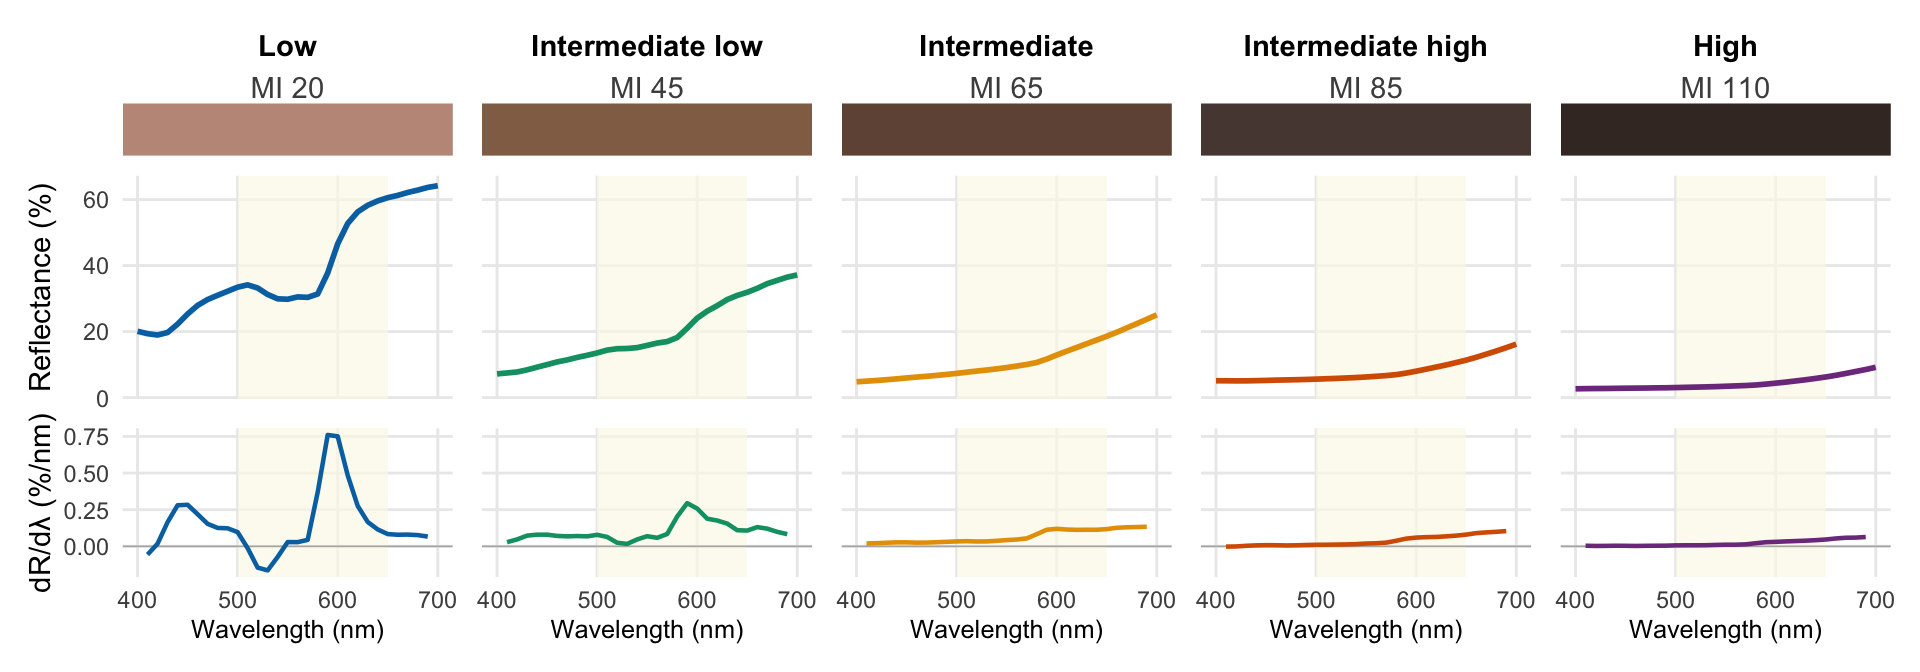
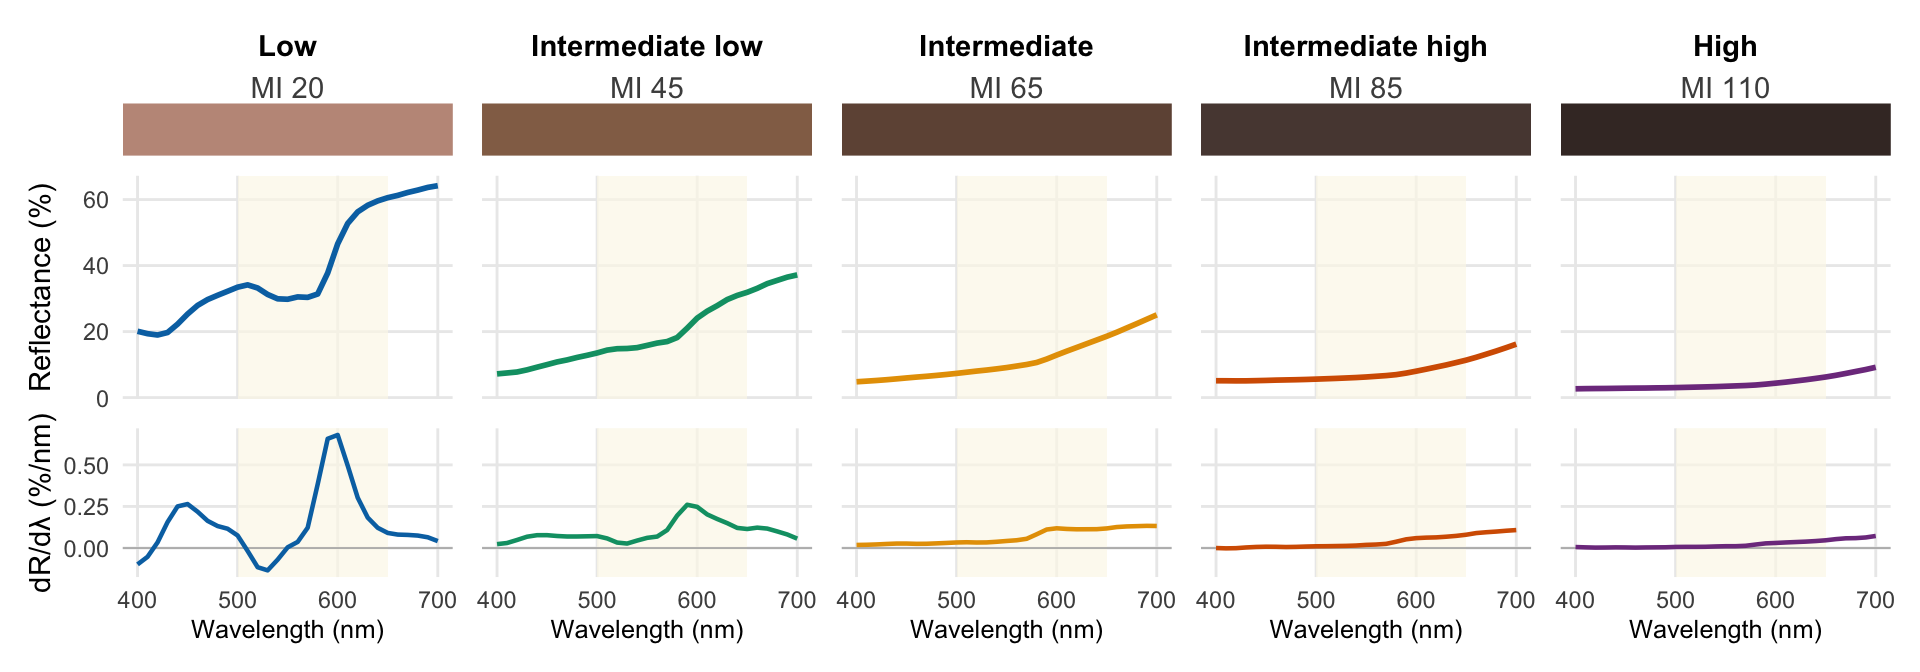
updated derivative methods.

diff --git a/docs/JID_SPF.html b/docs/JID_SPF.html
@@ -424,10 +424,10 @@ changes </a>
 <div id="strongRMarkdownfilestronguncommittedchanges"
 class="panel-collapse collapse">
 <div class="panel-body">
-<p>The R Markdown is untracked by Git. To know which version of the R
-Markdown file created these results, you’ll want to first commit it to
-the Git repo. If you’re still working on the analysis, you can ignore
-this warning. When you’re finished, you can run
+<p>The R Markdown file has unstaged changes. To know which version of
+the R Markdown file created these results, you’ll want to first commit
+it to the Git repo. If you’re still working on the analysis, you can
+ignore this warning. When you’re finished, you can run
 <code>wflow_publish</code> to commit the R Markdown file and build the
 HTML.</p>
 </div>
@@ -520,15 +520,15 @@ project makes it easier to run your code on other machines.</p>
 <div class="panel panel-default">
 <div class="panel-heading">
 <p class="panel-title">
-<a data-toggle="collapse" data-parent="#workflowr-checks" href="#strongRepositoryversionstrongahrefhttpsgithubcomlasisilabSkinOpticstree8dce03011d1175f281af12471c164ebfa65601f8targetblank8dce030a">
+<a data-toggle="collapse" data-parent="#workflowr-checks" href="#strongRepositoryversionstrongahrefhttpsgithubcomlasisilabSkinOpticstreea6bf8a4023adb568d4412fdb3dad40a08aa5e2a8targetblanka6bf8a4a">
 <span class="glyphicon glyphicon-ok text-success"
 aria-hidden="true"></span> <strong>Repository version:</strong>
-<a href="https://github.com/lasisilab/SkinOptics/tree/8dce03011d1175f281af12471c164ebfa65601f8" target="_blank">8dce030</a>
+<a href="https://github.com/lasisilab/SkinOptics/tree/a6bf8a4023adb568d4412fdb3dad40a08aa5e2a8" target="_blank">a6bf8a4</a>
 </a>
 </p>
 </div>
 <div
[2 lines of base64/hex data omitted]
 class="panel-collapse collapse">
 <div class="panel-body">
 <p>
@@ -538,7 +538,7 @@ reproducibility.
 </p>
 <p>
 The results in this page were generated with repository version
-<a href="https://github.com/lasisilab/SkinOptics/tree/8dce03011d1175f281af12471c164ebfa65601f8" target="_blank">8dce030</a>.
+<a href="https://github.com/lasisilab/SkinOptics/tree/a6bf8a4023adb568d4412fdb3dad40a08aa5e2a8" target="_blank">a6bf8a4</a>.
 See the <em>Past versions</em> tab to see a history of the changes made
 to the R Markdown and HTML files.
 </p>
@@ -559,11 +559,8 @@ Ignored files:
     Ignored:    data/.DS_Store
     Ignored:    output/.DS_Store
 
-Untracked files:
-    Untracked:  analysis/JID_SPF.Rmd
-    Untracked:  output/JID_SPF_representative_spectra.pdf
-    Untracked:  output/JID_SPF_representative_spectra.png
-    Untracked:  output/JID_SPF_representative_spectra.svg
+Unstaged changes:
+    Modified:   analysis/JID_SPF.Rmd
 
 </code></pre>
 <p>
@@ -579,15 +576,78 @@ have uncommitted changes.
 </div>
 <div id="versions" class="tab-pane fade">
 <p>
-There are no past versions. Publish this analysis with
-<code>wflow_publish()</code> to start tracking its development.
+These are the previous versions of the repository in which changes were
+made to the R Markdown (<code>analysis/JID_SPF.Rmd</code>) and HTML
+(<code>docs/JID_SPF.html</code>) files. If you’ve configured a remote
+Git repository (see <code>?wflow_git_remote</code>), click on the
+hyperlinks in the table below to view the files as they were in that
+past version.
 </p>
+<div class="table-responsive">
+<table class="table table-condensed table-hover">
+<thead>
+<tr>
+<th>
+File
+</th>
+<th>
+Version
+</th>
+<th>
+Author
+</th>
+<th>
+Date
+</th>
+<th>
+Message
+</th>
+</tr>
+</thead>
+<tbody>
+<tr>
+<td>
+Rmd
+</td>
+<td>
+<a href="https://github.com/lasisilab/SkinOptics/blob/a6bf8a4023adb568d4412fdb3dad40a08aa5e2a8/analysis/JID_SPF.Rmd" target="_blank">a6bf8a4</a>
+</td>
+<td>
+tinalasisi
+</td>
+<td>
+2026-06-17
+</td>
+<td>
+create figure for SPF paper
+</td>
+</tr>
+<tr>
+<td>
+html
+</td>
+<td>
+<a href="https://rawcdn.githack.com/lasisilab/SkinOptics/a6bf8a4023adb568d4412fdb3dad40a08aa5e2a8/docs/JID_SPF.html" target="_blank">a6bf8a4</a>
+</td>
+<td>
+tinalasisi
+</td>
+<td>
+2026-06-17
+</td>
+<td>
+create figure for SPF paper
+</td>
+</tr>
+</tbody>
+</table>
+</div>
 <hr>
 </div>
 </div>
 </div>
 <div class="figure" style="text-align: center">
-<img src="figure/JID_SPF.Rmd/representative_spectra-1.png" alt="Representative facial reflectance spectra chosen to span the observed melanin-index range with clear color contrast: the lightest and darkest subjects in the sample as endpoints, plus the nearest real subject to MI ≈ 45, 65, and 85 for the middle (the reflectance curve, derivative, and color swatch all come from the same individual). Top swatch = the perceived skin color for that spectrum (CIE D65 / 1931 2° observer → sRGB). Middle = full 400–700 nm reflectance curve; bottom = its first derivative dR/dλ. y-axes are held constant across classes so magnitudes are comparable. Shaded band = 500–650 nm hemoglobin-feature region." width="100%" />
+<img src="figure/JID_SPF.Rmd/representative_spectra-1.png" alt="Representative facial reflectance spectra chosen to span the observed melanin-index range with clear color contrast: the lightest and darkest subjects in the sample as endpoints, plus the nearest real subject to MI ≈ 45, 65, and 85 for the middle (the reflectance curve, derivative, and color swatch all come from the same individual). Top swatch = the perceived skin color for that spectrum (CIE D65 / 1931 2° observer → sRGB). Middle = full 400–700 nm reflectance curve; bottom = its first derivative dR/dλ, estimated by local polynomial regression (KernSmooth::locpoly, derivative order 1, degree 2; direct plug-in bandwidth dpill × 0.7), matching the derivative method in Pryor et al. (2026). y-axes are held constant across classes so magnitudes are comparable. Shaded band = 500–650 nm hemoglobin-feature region." width="100%" />
 <p class="caption">
 Representative facial reflectance spectra chosen to span the observed
 melanin-index range with clear color contrast: the lightest and darkest
@@ -596,9 +656,49 @@ subjects in the sample as endpoints, plus the nearest real subject to MI
 color swatch all come from the same individual). Top swatch = the
 perceived skin color for that spectrum (CIE D65 / 1931 2° observer →
 sRGB). Middle = full 400–700 nm reflectance curve; bottom = its first
-derivative dR/dλ. y-axes are held constant across classes so magnitudes
-are comparable. Shaded band = 500–650 nm hemoglobin-feature region.
+derivative dR/dλ, estimated by local polynomial regression
+(KernSmooth::locpoly, derivative order 1, degree 2; direct plug-in
+bandwidth dpill × 0.7), matching the derivative method in Pryor et
+al. (2026). y-axes are held constant across classes so magnitudes are
+comparable. Shaded band = 500–650 nm hemoglobin-feature region.
 </p>
+</div>
+<p>
+<button type="button" class="btn btn-default btn-xs btn-workflowr btn-workflowr-fig" data-toggle="collapse" data-target="#fig-representative_spectra-1">
+Past versions of representative_spectra-1.png
+</button>
+</p>
+<div id="fig-representative_spectra-1" class="collapse">
+<div class="table-responsive">
+<table class="table table-condensed table-hover">
+<thead>
+<tr>
+<th>
+Version
+</th>
+<th>
+Author
+</th>
+<th>
+Date
+</th>
+</tr>
+</thead>
+<tbody>
+<tr>
+<td>
+<a href="https://github.com/lasisilab/SkinOptics/blob/a6bf8a4023adb568d4412fdb3dad40a08aa5e2a8/docs/figure/JID_SPF.Rmd/representative_spectra-1.png" target="_blank">a6bf8a4</a>
+</td>
+<td>
+tinalasisi
+</td>
+<td>
+2026-06-17
+</td>
+</tr>
+</tbody>
+</table>
+</div>
 </div>
 <table>
 <caption>Perceived skin color per representative spectrum, computed from
@@ -665,7 +765,11 @@ reflectance workbook; <code>tidyverse</code> (<code>dplyr</code>,
 <code>ggplot2</code>) does the wrangling, reshaping, and plotting;
 <code>here</code> resolves project-relative paths;
 <code>patchwork</code> composes the per-class swatch / reflectance /
-derivative columns into the final figure.</p>
+derivative columns into the final figure. <code>KernSmooth</code>
+(<code>locpoly</code>, <code>dpill</code>) estimates the first
+derivative of each reflectance spectrum by local polynomial regression,
+identical to the method in the original SkinOptics analysis (Pryor et
+al., 2026).</p>
 <p><strong>Spectrum → color.</strong> The perceived skin color is
 computed with standard colorimetry packages:</p>
 <ul>
@@ -698,31 +802,32 @@ attached base packages:
 [1] stats     graphics  grDevices utils     datasets  methods   base     
 
 other attached packages:
- [1] spacesRGB_1.7-0  spacesXYZ_1.6-0  colorSpec_1.8-0  patchwork_1.3.2 
- [5] here_1.0.2       openxlsx_4.2.8.1 lubridate_1.9.5  forcats_1.0.1   
- [9] stringr_1.6.0    dplyr_1.2.1      purrr_1.2.2      readr_2.2.0     
-[13] tidyr_1.3.2      tibble_3.3.1     ggplot2_4.0.3    tidyverse_2.0.0 
-[17] knitr_1.51      
+ [1] spacesRGB_1.7-0    spacesXYZ_1.6-0    colorSpec_1.8-0    KernSmooth_2.23-26
+ [5] patchwork_1.3.2    here_1.0.2         openxlsx_4.2.8.1   lubridate_1.9.5   
+ [9] forcats_1.0.1      stringr_1.6.0      dplyr_1.2.1        purrr_1.2.2       
+[13] readr_2.2.0        tidyr_1.3.2        tibble_3.3.1       ggplot2_4.0.3     
+[17] tidyverse_2.0.0    knitr_1.51        
 
 loaded via a namespace (and not attached):
- [1] sass_0.4.10          generics_0.1.4       stringi_1.8.7       
- [4] hms_1.1.4            digest_0.6.39        magrittr_2.0.5      
- [7] evaluate_1.0.5       grid_4.6.0           timechange_0.4.0    
-[10] RColorBrewer_1.1-3   fastmap_1.2.0        rprojroot_2.1.1     
-[13] workflowr_1.7.2      jsonlite_2.0.0       zip_3.0.0           
-[16] promises_1.5.0       scales_1.4.0         textshaping_1.0.5   
-[19] microbenchmark_1.5.0 jquerylib_0.1.4      cli_3.6.6           
-[22] rlang_1.2.0          withr_3.0.2          cachem_1.1.0        
-[25] yaml_2.3.12          otel_0.2.0           tools_4.6.0         
-[28] tzdb_0.5.0           httpuv_1.6.17        logger_0.4.2        
-[31] vctrs_0.7.3          R6_2.6.1             lifecycle_1.0.5     
-[34] git2r_0.36.2         fs_2.1.0             ragg_1.5.2          
-[37] pkgconfig_2.0.3      pillar_1.11.1        bslib_0.11.0        
-[40] later_1.4.8          gtable_0.3.6         glue_1.8.1          
-[43] Rcpp_1.1.1-1.1       systemfonts_1.3.2    xfun_0.58           
-[46] tidyselect_1.2.1     dichromat_2.0-0.1    farver_2.1.2        
-[49] htmltools_0.5.9      svglite_2.2.2        labeling_0.4.3      
-[52] rmarkdown_2.31       compiler_4.6.0       S7_0.2.2            </code></pre>
+ [1] gtable_0.3.6         xfun_0.58            bslib_0.11.0        
+ [4] tzdb_0.5.0           vctrs_0.7.3          tools_4.6.0         
+ [7] generics_0.1.4       pkgconfig_2.0.3      RColorBrewer_1.1-3  
+[10] S7_0.2.2             lifecycle_1.0.5      compiler_4.6.0      
+[13] farver_2.1.2         git2r_0.36.2         microbenchmark_1.5.0
+[16] textshaping_1.0.5    httpuv_1.6.17        htmltools_0.5.9     
+[19] sass_0.4.10          yaml_2.3.12          later_1.4.8         
+[22] pillar_1.11.1        jquerylib_0.1.4      whisker_0.4.1       
+[25] cachem_1.1.0         tidyselect_1.2.1     zip_3.0.0           
+[28] digest_0.6.39        stringi_1.8.7        labeling_0.4.3      
+[31] rprojroot_2.1.1      fastmap_1.2.0        grid_4.6.0          
+[34] cli_3.6.6            logger_0.4.2         magrittr_2.0.5      
+[37] dichromat_2.0-0.1    withr_3.0.2          scales_1.4.0        
+[40] promises_1.5.0       timechange_0.4.0     rmarkdown_2.31      
+[43] otel_0.2.0           workflowr_1.7.2      ragg_1.5.2          
+[46] hms_1.1.4            evaluate_1.0.5       rlang_1.2.0         
+[49] Rcpp_1.1.1-1.1       glue_1.8.1           svglite_2.2.2       
+[52] jsonlite_2.0.0       R6_2.6.1             systemfonts_1.3.2   
+[55] fs_2.1.0            </code></pre>
 <br>
 <p>
 <button type="button" class="btn btn-default btn-workflowr btn-workflowr-sessioninfo" data-toggle="collapse" data-target="#workflowr-sessioninfo" style="display: block;">
@@ -749,31 +854,32 @@ attached base packages:
 [1] stats     graphics  grDevices utils     datasets  methods   base     
 
 other attached packages:
- [1] spacesRGB_1.7-0  spacesXYZ_1.6-0  colorSpec_1.8-0  patchwork_1.3.2 
- [5] here_1.0.2       openxlsx_4.2.8.1 lubridate_1.9.5  forcats_1.0.1   
- [9] stringr_1.6.0    dplyr_1.2.1      purrr_1.2.2      readr_2.2.0     
-[13] tidyr_1.3.2      tibble_3.3.1     ggplot2_4.0.3    tidyverse_2.0.0 
-[17] knitr_1.51      
+ [1] spacesRGB_1.7-0    spacesXYZ_1.6-0    colorSpec_1.8-0    KernSmooth_2.23-26
+ [5] patchwork_1.3.2    here_1.0.2         openxlsx_4.2.8.1   lubridate_1.9.5   
+ [9] forcats_1.0.1      stringr_1.6.0      dplyr_1.2.1        purrr_1.2.2       
+[13] readr_2.2.0        tidyr_1.3.2        tibble_3.3.1       ggplot2_4.0.3     
+[17] tidyverse_2.0.0    knitr_1.51        
 
 loaded via a namespace (and not attached):
- [1] sass_0.4.10          generics_0.1.4       stringi_1.8.7       
- [4] hms_1.1.4            digest_0.6.39        magrittr_2.0.5      
- [7] evaluate_1.0.5       grid_4.6.0           timechange_0.4.0    
-[10] RColorBrewer_1.1-3   fastmap_1.2.0        rprojroot_2.1.1     
-[13] workflowr_1.7.2      jsonlite_2.0.0       zip_3.0.0           
-[16] promises_1.5.0       scales_1.4.0         textshaping_1.0.5   
-[19] microbenchmark_1.5.0 jquerylib_0.1.4      cli_3.6.6           
-[22] rlang_1.2.0          withr_3.0.2          cachem_1.1.0        
-[25] yaml_2.3.12          otel_0.2.0           tools_4.6.0         
-[28] tzdb_0.5.0           httpuv_1.6.17        logger_0.4.2        
-[31] vctrs_0.7.3          R6_2.6.1             lifecycle_1.0.5     
-[34] git2r_0.36.2         fs_2.1.0             ragg_1.5.2          
-[37] pkgconfig_2.0.3      pillar_1.11.1        bslib_0.11.0        
-[40] later_1.4.8          gtable_0.3.6         glue_1.8.1          
-[43] Rcpp_1.1.1-1.1       systemfonts_1.3.2    xfun_0.58           
-[46] tidyselect_1.2.1     dichromat_2.0-0.1    farver_2.1.2        
-[49] htmltools_0.5.9      svglite_2.2.2        labeling_0.4.3      
-[52] rmarkdown_2.31       compiler_4.6.0       S7_0.2.2            </code></pre>
+ [1] gtable_0.3.6         xfun_0.58            bslib_0.11.0        
+ [4] tzdb_0.5.0           vctrs_0.7.3          tools_4.6.0         
+ [7] generics_0.1.4       pkgconfig_2.0.3      RColorBrewer_1.1-3  
+[10] S7_0.2.2             lifecycle_1.0.5      compiler_4.6.0      
+[13] farver_2.1.2         git2r_0.36.2         microbenchmark_1.5.0
+[16] textshaping_1.0.5    httpuv_1.6.17        htmltools_0.5.9     
+[19] sass_0.4.10          yaml_2.3.12          later_1.4.8         
+[22] pillar_1.11.1        jquerylib_0.1.4      whisker_0.4.1       
+[25] cachem_1.1.0         tidyselect_1.2.1     zip_3.0.0           
+[28] digest_0.6.39        stringi_1.8.7        labeling_0.4.3      
+[31] rprojroot_2.1.1      fastmap_1.2.0        grid_4.6.0          
+[34] cli_3.6.6            logger_0.4.2         magrittr_2.0.5      
+[37] dichromat_2.0-0.1    withr_3.0.2          scales_1.4.0        
+[40] promises_1.5.0       timechange_0.4.0     rmarkdown_2.31      
+[43] otel_0.2.0           workflowr_1.7.2      ragg_1.5.2          
+[46] hms_1.1.4            evaluate_1.0.5       rlang_1.2.0         
+[49] Rcpp_1.1.1-1.1       glue_1.8.1           svglite_2.2.2       
+[52] jsonlite_2.0.0       R6_2.6.1             systemfonts_1.3.2   
+[55] fs_2.1.0            </code></pre>
 </div>
 </div>
 </div>
